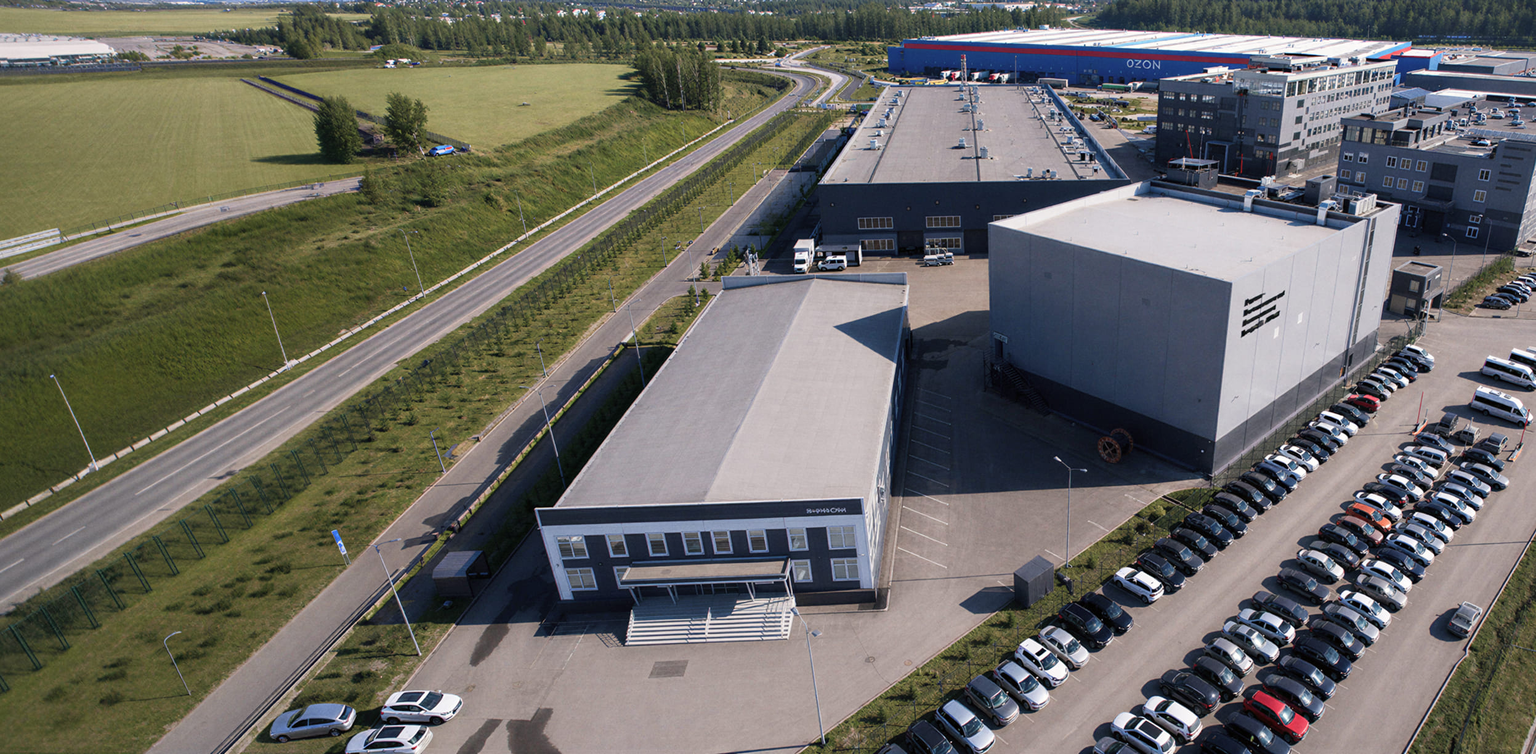
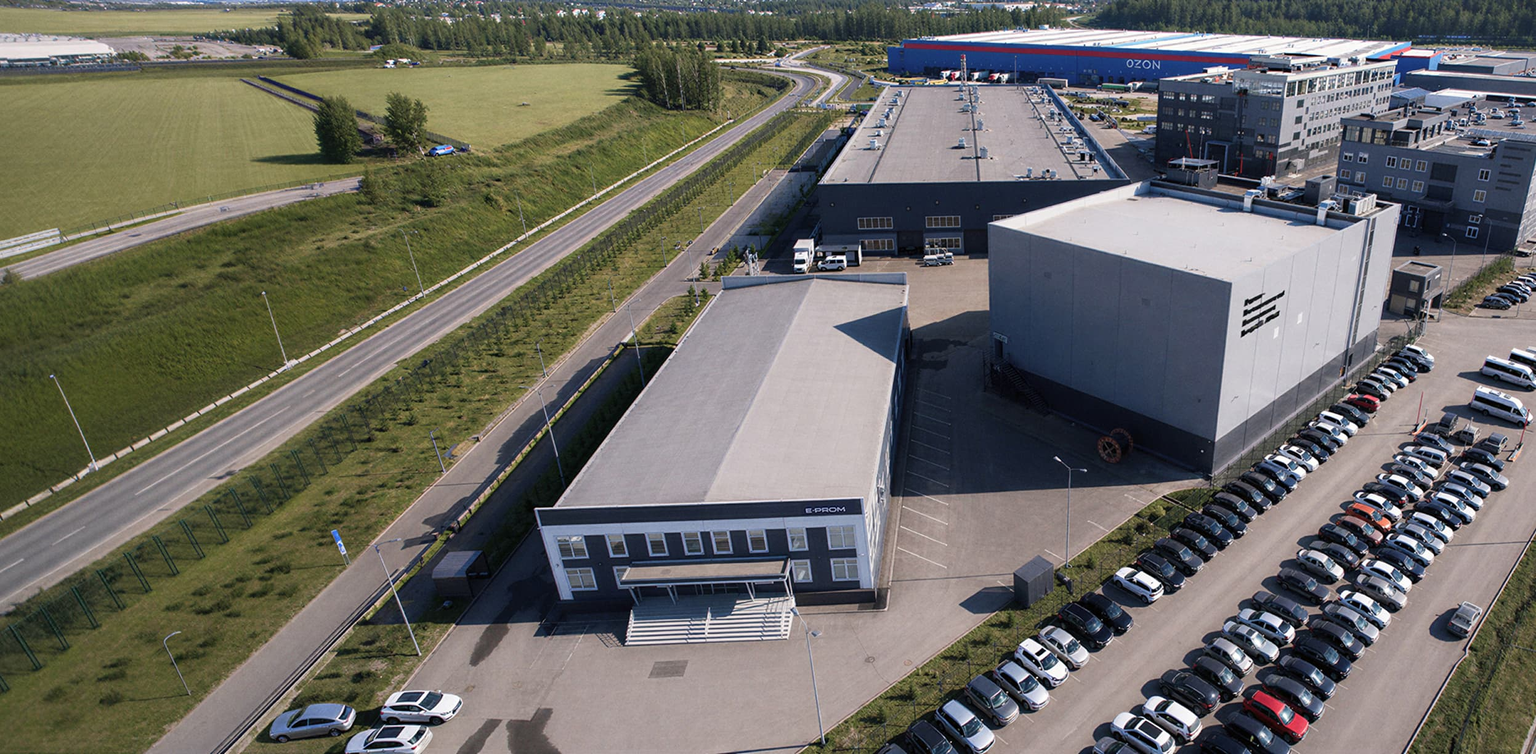
fix: update image media file

diff --git a/docs/404.html b/docs/404.html
@@ -29,17 +29,17 @@
 	<meta name="twitter:card" content="summary_large_image">
 	<!-- Open Graph  -->
 	<!-- plugins -->
-	<link rel="preload" href="css/libs/swiper-bundle.min.css?_v=20260717173335" as="style" onload="this.onload=null;this.rel='stylesheet'">
+	<link rel="preload" href="css/libs/swiper-bundle.min.css?_v=20260729215614" as="style" onload="this.onload=null;this.rel='stylesheet'">
 	<noscript>
-		<link rel="stylesheet" href="css/libs/swiper-bundle.min.css?_v=20260717173335">
+		<link rel="stylesheet" href="css/libs/swiper-bundle.min.css?_v=20260729215614">
 	</noscript>
-	<link rel="preload" href="css/libs/fancybox.css?_v=20260717173335" as="style" onload="this.onload=null;this.rel='stylesheet'">
+	<link rel="preload" href="css/libs/fancybox.css?_v=20260729215614" as="style" onload="this.onload=null;this.rel='stylesheet'">
 	<noscript>
-		<link rel="stylesheet" href="css/libs/fancybox.css?_v=20260717173335">
+		<link rel="stylesheet" href="css/libs/fancybox.css?_v=20260729215614">
 	</noscript>
 	<!-- plugins -->
-	<link rel="stylesheet" href="css/reset.min.css?_v=20260717173335">
-	<link rel="stylesheet" href="css/style.min.css?_v=20260717173335">
+	<link rel="stylesheet" href="css/reset.min.css?_v=20260729215614">
+	<link rel="stylesheet" href="css/style.min.css?_v=20260729215614">
 	<noscript>
 		<style>
 			[data-animate] {
@@ -249,12 +249,12 @@
 			<h2 id="error-modal-title" class="popup__title title-sm">Ошибка</h2>
 			<p class="popup__subtitle">Что-то пошло не так. Попробуйте позже.</p>
 		</dialog> <!-- plugins -->
-		<script defer src="js/libs/swiper-bundle.min.js?_v=20260717173335"></script>
-		<script defer src="js/libs/fancybox.umd.js?_v=20260717173335"></script>
+		<script defer src="js/libs/swiper-bundle.min.js?_v=20260729215614"></script>
+		<script defer src="js/libs/fancybox.umd.js?_v=20260729215614"></script>
 		<!-- plugins -->
-		<script src="js/app.min.js?_v=20260717173335"></script>
+		<script src="js/app.min.js?_v=20260729215614"></script>
 		<div id="captcha-container" style="display:none" aria-hidden="true"></div>
-		<script src="https://smartcaptcha.yandexcloud.net/captcha.js?render=onload&onload=onSmartCaptchaLoad&_v=20260717173335" defer></script>
+		<script src="https://smartcaptcha.yandexcloud.net/captcha.js?render=onload&onload=onSmartCaptchaLoad&_v=20260729215614" defer></script>
 		<script>
 			function onSmartCaptchaLoad() {
 				if (typeof window.initSmartCaptcha === 'function') {

diff --git a/docs/about.html b/docs/about.html
@@ -29,17 +29,17 @@
 	<meta name="twitter:card" content="summary_large_image">
 	<!-- Open Graph  -->
 	<!-- plugins -->
-	<link rel="preload" href="css/libs/swiper-bundle.min.css?_v=20260717173335" as="style" onload="this.onload=null;this.rel='stylesheet'">
+	<link rel="preload" href="css/libs/swiper-bundle.min.css?_v=20260729215614" as="style" onload="this.onload=null;this.rel='stylesheet'">
 	<noscript>
-		<link rel="stylesheet" href="css/libs/swiper-bundle.min.css?_v=20260717173335">
+		<link rel="stylesheet" href="css/libs/swiper-bundle.min.css?_v=20260729215614">
 	</noscript>
-	<link rel="preload" href="css/libs/fancybox.css?_v=20260717173335" as="style" onload="this.onload=null;this.rel='stylesheet'">
+	<link rel="preload" href="css/libs/fancybox.css?_v=20260729215614" as="style" onload="this.onload=null;this.rel='stylesheet'">
 	<noscript>
-		<link rel="stylesheet" href="css/libs/fancybox.css?_v=20260717173335">
+		<link rel="stylesheet" href="css/libs/fancybox.css?_v=20260729215614">
 	</noscript>
 	<!-- plugins -->
-	<link rel="stylesheet" href="css/reset.min.css?_v=20260717173335">
-	<link rel="stylesheet" href="css/style.min.css?_v=20260717173335">
+	<link rel="stylesheet" href="css/reset.min.css?_v=20260729215614">
+	<link rel="stylesheet" href="css/style.min.css?_v=20260729215614">
 	<noscript>
 		<style>
 			[data-animate] {
@@ -696,12 +696,12 @@
 			<h2 id="error-modal-title" class="popup__title title-sm">Ошибка</h2>
 			<p class="popup__subtitle">Что-то пошло не так. Попробуйте позже.</p>
 		</dialog> <!-- plugins -->
-		<script defer src="js/libs/swiper-bundle.min.js?_v=20260717173335"></script>
-		<script defer src="js/libs/fancybox.umd.js?_v=20260717173335"></script>
+		<script defer src="js/libs/swiper-bundle.min.js?_v=20260729215614"></script>
+		<script defer src="js/libs/fancybox.umd.js?_v=20260729215614"></script>
 		<!-- plugins -->
-		<script src="js/app.min.js?_v=20260717173335"></script>
+		<script src="js/app.min.js?_v=20260729215614"></script>
 		<div id="captcha-container" style="display:none" aria-hidden="true"></div>
-		<script src="https://smartcaptcha.yandexcloud.net/captcha.js?render=onload&onload=onSmartCaptchaLoad&_v=20260717173335" defer></script>
+		<script src="https://smartcaptcha.yandexcloud.net/captcha.js?render=onload&onload=onSmartCaptchaLoad&_v=20260729215614" defer></script>
 		<script>
 			function onSmartCaptchaLoad() {
 				if (typeof window.initSmartCaptcha === 'function') {

diff --git a/docs/contacts.html b/docs/contacts.html
@@ -29,17 +29,17 @@
 	<meta name="twitter:card" content="summary_large_image">
 	<!-- Open Graph  -->
 	<!-- plugins -->
-	<link rel="preload" href="css/libs/swiper-bundle.min.css?_v=20260717173335" as="style" onload="this.onload=null;this.rel='stylesheet'">
+	<link rel="preload" href="css/libs/swiper-bundle.min.css?_v=20260729215614" as="style" onload="this.onload=null;this.rel='stylesheet'">
 	<noscript>
-		<link rel="stylesheet" href="css/libs/swiper-bundle.min.css?_v=20260717173335">
+		<link rel="stylesheet" href="css/libs/swiper-bundle.min.css?_v=20260729215614">
 	</noscript>
-	<link rel="preload" href="css/libs/fancybox.css?_v=20260717173335" as="style" onload="this.onload=null;this.rel='stylesheet'">
+	<link rel="preload" href="css/libs/fancybox.css?_v=20260729215614" as="style" onload="this.onload=null;this.rel='stylesheet'">
 	<noscript>
-		<link rel="stylesheet" href="css/libs/fancybox.css?_v=20260717173335">
+		<link rel="stylesheet" href="css/libs/fancybox.css?_v=20260729215614">
 	</noscript>
 	<!-- plugins -->
-	<link rel="stylesheet" href="css/reset.min.css?_v=20260717173335">
-	<link rel="stylesheet" href="css/style.min.css?_v=20260717173335">
+	<link rel="stylesheet" href="css/reset.min.css?_v=20260729215614">
+	<link rel="stylesheet" href="css/style.min.css?_v=20260729215614">
 	<noscript>
 		<style>
 			[data-animate] {
@@ -261,12 +261,12 @@
 			<h2 id="error-modal-title" class="popup__title title-sm">Ошибка</h2>
 			<p class="popup__subtitle">Что-то пошло не так. Попробуйте позже.</p>
 		</dialog> <!-- plugins -->
-		<script defer src="js/libs/swiper-bundle.min.js?_v=20260717173335"></script>
-		<script defer src="js/libs/fancybox.umd.js?_v=20260717173335"></script>
+		<script defer src="js/libs/swiper-bundle.min.js?_v=20260729215614"></script>
+		<script defer src="js/libs/fancybox.umd.js?_v=20260729215614"></script>
 		<!-- plugins -->
-		<script src="js/app.min.js?_v=20260717173335"></script>
+		<script src="js/app.min.js?_v=20260729215614"></script>
 		<div id="captcha-container" style="display:none" aria-hidden="true"></div>
-		<script src="https://smartcaptcha.yandexcloud.net/captcha.js?render=onload&onload=onSmartCaptchaLoad&_v=20260717173335" defer></script>
+		<script src="https://smartcaptcha.yandexcloud.net/captcha.js?render=onload&onload=onSmartCaptchaLoad&_v=20260729215614" defer></script>
 		<script>
 			function onSmartCaptchaLoad() {
 				if (typeof window.initSmartCaptcha === 'function') {

diff --git a/docs/contest.html b/docs/contest.html
@@ -29,17 +29,17 @@
 	<meta name="twitter:card" content="summary_large_image">
 	<!-- Open Graph  -->
 	<!-- plugins -->
-	<link rel="preload" href="css/libs/swiper-bundle.min.css?_v=20260717173335" as="style" onload="this.onload=null;this.rel='stylesheet'">
+	<link rel="preload" href="css/libs/swiper-bundle.min.css?_v=20260729215614" as="style" onload="this.onload=null;this.rel='stylesheet'">
 	<noscript>
-		<link rel="stylesheet" href="css/libs/swiper-bundle.min.css?_v=20260717173335">
+		<link rel="stylesheet" href="css/libs/swiper-bundle.min.css?_v=20260729215614">
 	</noscript>
-	<link rel="preload" href="css/libs/fancybox.css?_v=20260717173335" as="style" onload="this.onload=null;this.rel='stylesheet'">
+	<link rel="preload" href="css/libs/fancybox.css?_v=20260729215614" as="style" onload="this.onload=null;this.rel='stylesheet'">
 	<noscript>
-		<link rel="stylesheet" href="css/libs/fancybox.css?_v=20260717173335">
+		<link rel="stylesheet" href="css/libs/fancybox.css?_v=20260729215614">
 	</noscript>
 	<!-- plugins -->
-	<link rel="stylesheet" href="css/reset.min.css?_v=20260717173335">
-	<link rel="stylesheet" href="css/style.min.css?_v=20260717173335">
+	<link rel="stylesheet" href="css/reset.min.css?_v=20260729215614">
+	<link rel="stylesheet" href="css/style.min.css?_v=20260729215614">
 	<noscript>
 		<style>
 			[data-animate] {
@@ -373,12 +373,12 @@
 			<h2 id="error-modal-title" class="popup__title title-sm">Ошибка</h2>
 			<p class="popup__subtitle">Что-то пошло не так. Попробуйте позже.</p>
 		</dialog> <!-- plugins -->
-		<script defer src="js/libs/swiper-bundle.min.js?_v=20260717173335"></script>
-		<script defer src="js/libs/fancybox.umd.js?_v=20260717173335"></script>
+		<script defer src="js/libs/swiper-bundle.min.js?_v=20260729215614"></script>
+		<script defer src="js/libs/fancybox.umd.js?_v=20260729215614"></script>
 		<!-- plugins -->
-		<script src="js/app.min.js?_v=20260717173335"></script>
+		<script src="js/app.min.js?_v=20260729215614"></script>
 		<div id="captcha-container" style="display:none" aria-hidden="true"></div>
-		<script src="https://smartcaptcha.yandexcloud.net/captcha.js?render=onload&onload=onSmartCaptchaLoad&_v=20260717173335" defer></script>
+		<script src="https://smartcaptcha.yandexcloud.net/captcha.js?render=onload&onload=onSmartCaptchaLoad&_v=20260729215614" defer></script>
 		<script>
 			function onSmartCaptchaLoad() {
 				if (typeof window.initSmartCaptcha === 'function') {

diff --git a/docs/index.html b/docs/index.html
@@ -29,17 +29,17 @@
 	<meta name="twitter:card" content="summary_large_image">
 	<!-- Open Graph  -->
 	<!-- plugins -->
-	<link rel="preload" href="css/libs/swiper-bundle.min.css?_v=20260717173335" as="style" onload="this.onload=null;this.rel='stylesheet'">
+	<link rel="preload" href="css/libs/swiper-bundle.min.css?_v=20260729215614" as="style" onload="this.onload=null;this.rel='stylesheet'">
 	<noscript>
-		<link rel="stylesheet" href="css/libs/swiper-bundle.min.css?_v=20260717173335">
+		<link rel="stylesheet" href="css/libs/swiper-bundle.min.css?_v=20260729215614">
 	</noscript>
-	<link rel="preload" href="css/libs/fancybox.css?_v=20260717173335" as="style" onload="this.onload=null;this.rel='stylesheet'">
+	<link rel="preload" href="css/libs/fancybox.css?_v=20260729215614" as="style" onload="this.onload=null;this.rel='stylesheet'">
 	<noscript>
-		<link rel="stylesheet" href="css/libs/fancybox.css?_v=20260717173335">
+		<link rel="stylesheet" href="css/libs/fancybox.css?_v=20260729215614">
 	</noscript>
 	<!-- plugins -->
-	<link rel="stylesheet" href="css/reset.min.css?_v=20260717173335">
-	<link rel="stylesheet" href="css/style.min.css?_v=20260717173335">
+	<link rel="stylesheet" href="css/reset.min.css?_v=20260729215614">
+	<link rel="stylesheet" href="css/style.min.css?_v=20260729215614">
 	<noscript>
 		<style>
 			[data-animate] {
@@ -646,12 +646,12 @@
 			<h2 id="error-modal-title" class="popup__title title-sm">Ошибка</h2>
 			<p class="popup__subtitle">Что-то пошло не так. Попробуйте позже.</p>
 		</dialog> <!-- plugins -->
-		<script defer src="js/libs/swiper-bundle.min.js?_v=20260717173335"></script>
-		<script defer src="js/libs/fancybox.umd.js?_v=20260717173335"></script>
+		<script defer src="js/libs/swiper-bundle.min.js?_v=20260729215614"></script>
+		<script defer src="js/libs/fancybox.umd.js?_v=20260729215614"></script>
 		<!-- plugins -->
-		<script src="js/app.min.js?_v=20260717173335"></script>
+		<script src="js/app.min.js?_v=20260729215614"></script>
 		<div id="captcha-container" style="display:none" aria-hidden="true"></div>
-		<script src="https://smartcaptcha.yandexcloud.net/captcha.js?render=onload&onload=onSmartCaptchaLoad&_v=20260717173335" defer></script>
+		<script src="https://smartcaptcha.yandexcloud.net/captcha.js?render=onload&onload=onSmartCaptchaLoad&_v=20260729215614" defer></script>
 		<script>
 			function onSmartCaptchaLoad() {
 				if (typeof window.initSmartCaptcha === 'function') {

diff --git a/docs/interaction.html b/docs/interaction.html
@@ -29,17 +29,17 @@
 	<meta name="twitter:card" content="summary_large_image">
 	<!-- Open Graph  -->
 	<!-- plugins -->
-	<link rel="preload" href="css/libs/swiper-bundle.min.css?_v=20260717173335" as="style" onload="this.onload=null;this.rel='stylesheet'">
+	<link rel="preload" href="css/libs/swiper-bundle.min.css?_v=20260729215614" as="style" onload="this.onload=null;this.rel='stylesheet'">
 	<noscript>
-		<link rel="stylesheet" href="css/libs/swiper-bundle.min.css?_v=20260717173335">
+		<link rel="stylesheet" href="css/libs/swiper-bundle.min.css?_v=20260729215614">
 	</noscript>
-	<link rel="preload" href="css/libs/fancybox.css?_v=20260717173335" as="style" onload="this.onload=null;this.rel='stylesheet'">
+	<link rel="preload" href="css/libs/fancybox.css?_v=20260729215614" as="style" onload="this.onload=null;this.rel='stylesheet'">
 	<noscript>
-		<link rel="stylesheet" href="css/libs/fancybox.css?_v=20260717173335">
+		<link rel="stylesheet" href="css/libs/fancybox.css?_v=20260729215614">
 	</noscript>
 	<!-- plugins -->
-	<link rel="stylesheet" href="css/reset.min.css?_v=20260717173335">
-	<link rel="stylesheet" href="css/style.min.css?_v=20260717173335">
+	<link rel="stylesheet" href="css/reset.min.css?_v=20260729215614">
+	<link rel="stylesheet" href="css/style.min.css?_v=20260729215614">
 	<noscript>
 		<style>
 			[data-animate] {
@@ -416,12 +416,12 @@
 			<h2 id="error-modal-title" class="popup__title title-sm">Ошибка</h2>
 			<p class="popup__subtitle">Что-то пошло не так. Попробуйте позже.</p>
 		</dialog> <!-- plugins -->
-		<script defer src="js/libs/swiper-bundle.min.js?_v=20260717173335"></script>
-		<script defer src="js/libs/fancybox.umd.js?_v=20260717173335"></script>
+		<script defer src="js/libs/swiper-bundle.min.js?_v=20260729215614"></script>
+		<script defer src="js/libs/fancybox.umd.js?_v=20260729215614"></script>
 		<!-- plugins -->
-		<script src="js/app.min.js?_v=20260717173335"></script>
+		<script src="js/app.min.js?_v=20260729215614"></script>
 		<div id="captcha-container" style="display:none" aria-hidden="true"></div>
-		<script src="https://smartcaptcha.yandexcloud.net/captcha.js?render=onload&onload=onSmartCaptchaLoad&_v=20260717173335" defer></script>
+		<script src="https://smartcaptcha.yandexcloud.net/captcha.js?render=onload&onload=onSmartCaptchaLoad&_v=20260729215614" defer></script>
 		<script>
 			function onSmartCaptchaLoad() {
 				if (typeof window.initSmartCaptcha === 'function') {

diff --git a/docs/policy.html b/docs/policy.html
@@ -29,17 +29,17 @@
 	<meta name="twitter:card" content="summary_large_image">
 	<!-- Open Graph  -->
 	<!-- plugins -->
-	<link rel="preload" href="css/libs/swiper-bundle.min.css?_v=20260717173335" as="style" onload="this.onload=null;this.rel='stylesheet'">
+	<link rel="preload" href="css/libs/swiper-bundle.min.css?_v=20260729215614" as="style" onload="this.onload=null;this.rel='stylesheet'">
 	<noscript>
-		<link rel="stylesheet" href="css/libs/swiper-bundle.min.css?_v=20260717173335">
+		<link rel="stylesheet" href="css/libs/swiper-bundle.min.css?_v=20260729215614">
 	</noscript>
-	<link rel="preload" href="css/libs/fancybox.css?_v=20260717173335" as="style" onload="this.onload=null;this.rel='stylesheet'">
+	<link rel="preload" href="css/libs/fancybox.css?_v=20260729215614" as="style" onload="this.onload=null;this.rel='stylesheet'">
 	<noscript>
-		<link rel="stylesheet" href="css/libs/fancybox.css?_v=20260717173335">
+		<link rel="stylesheet" href="css/libs/fancybox.css?_v=20260729215614">
 	</noscript>
 	<!-- plugins -->
-	<link rel="stylesheet" href="css/reset.min.css?_v=20260717173335">
-	<link rel="stylesheet" href="css/style.min.css?_v=20260717173335">
+	<link rel="stylesheet" href="css/reset.min.css?_v=20260729215614">
+	<link rel="stylesheet" href="css/style.min.css?_v=20260729215614">
 	<noscript>
 		<style>
 			[data-animate] {
@@ -518,12 +518,12 @@
 			<h2 id="error-modal-title" class="popup__title title-sm">Ошибка</h2>
 			<p class="popup__subtitle">Что-то пошло не так. Попробуйте позже.</p>
 		</dialog> <!-- plugins -->
-		<script defer src="js/libs/swiper-bundle.min.js?_v=20260717173335"></script>
-		<script defer src="js/libs/fancybox.umd.js?_v=20260717173335"></script>
+		<script defer src="js/libs/swiper-bundle.min.js?_v=20260729215614"></script>
+		<script defer src="js/libs/fancybox.umd.js?_v=20260729215614"></script>
 		<!-- plugins -->
-		<script src="js/app.min.js?_v=20260717173335"></script>
+		<script src="js/app.min.js?_v=20260729215614"></script>
 		<div id="captcha-container" style="display:none" aria-hidden="true"></div>
-		<script src="https://smartcaptcha.yandexcloud.net/captcha.js?render=onload&onload=onSmartCaptchaLoad&_v=20260717173335" defer></script>
+		<script src="https://smartcaptcha.yandexcloud.net/captcha.js?render=onload&onload=onSmartCaptchaLoad&_v=20260729215614" defer></script>
 		<script>
 			function onSmartCaptchaLoad() {
 				if (typeof window.initSmartCaptcha === 'function') {

diff --git a/docs/university.html b/docs/university.html
@@ -29,17 +29,17 @@
 	<meta name="twitter:card" content="summary_large_image">
 	<!-- Open Graph  -->
 	<!-- plugins -->
-	<link rel="preload" href="css/libs/swiper-bundle.min.css?_v=20260717173335" as="style" onload="this.onload=null;this.rel='stylesheet'">
+	<link rel="preload" href="css/libs/swiper-bundle.min.css?_v=20260729215614" as="style" onload="this.onload=null;this.rel='stylesheet'">
 	<noscript>
-		<link rel="stylesheet" href="css/libs/swiper-bundle.min.css?_v=20260717173335">
+		<link rel="stylesheet" href="css/libs/swiper-bundle.min.css?_v=20260729215614">
 	</noscript>
-	<link rel="preload" href="css/libs/fancybox.css?_v=20260717173335" as="style" onload="this.onload=null;this.rel='stylesheet'">
+	<link rel="preload" href="css/libs/fancybox.css?_v=20260729215614" as="style" onload="this.onload=null;this.rel='stylesheet'">
 	<noscript>
-		<link rel="stylesheet" href="css/libs/fancybox.css?_v=20260717173335">
+		<link rel="stylesheet" href="css/libs/fancybox.css?_v=20260729215614">
 	</noscript>
 	<!-- plugins -->
-	<link rel="stylesheet" href="css/reset.min.css?_v=20260717173335">
-	<link rel="stylesheet" href="css/style.min.css?_v=20260717173335">
+	<link rel="stylesheet" href="css/reset.min.css?_v=20260729215614">
+	<link rel="stylesheet" href="css/style.min.css?_v=20260729215614">
 	<noscript>
 		<style>
 			[data-animate] {
@@ -796,12 +796,12 @@
 			<h2 id="error-modal-title" class="popup__title title-sm">Ошибка</h2>
 			<p class="popup__subtitle">Что-то пошло не так. Попробуйте позже.</p>
 		</dialog> <!-- plugins -->
-		<script defer src="js/libs/swiper-bundle.min.js?_v=20260717173335"></script>
-		<script defer src="js/libs/fancybox.umd.js?_v=20260717173335"></script>
+		<script defer src="js/libs/swiper-bundle.min.js?_v=20260729215614"></script>
+		<script defer src="js/libs/fancybox.umd.js?_v=20260729215614"></script>
 		<!-- plugins -->
-		<script src="js/app.min.js?_v=20260717173335"></script>
+		<script src="js/app.min.js?_v=20260729215614"></script>
 		<div id="captcha-container" style="display:none" aria-hidden="true"></div>
-		<script src="https://smartcaptcha.yandexcloud.net/captcha.js?render=onload&onload=onSmartCaptchaLoad&_v=20260717173335" defer></script>
+		<script src="https://smartcaptcha.yandexcloud.net/captcha.js?render=onload&onload=onSmartCaptchaLoad&_v=20260729215614" defer></script>
 		<script>
 			function onSmartCaptchaLoad() {
 				if (typeof window.initSmartCaptcha === 'function') {
